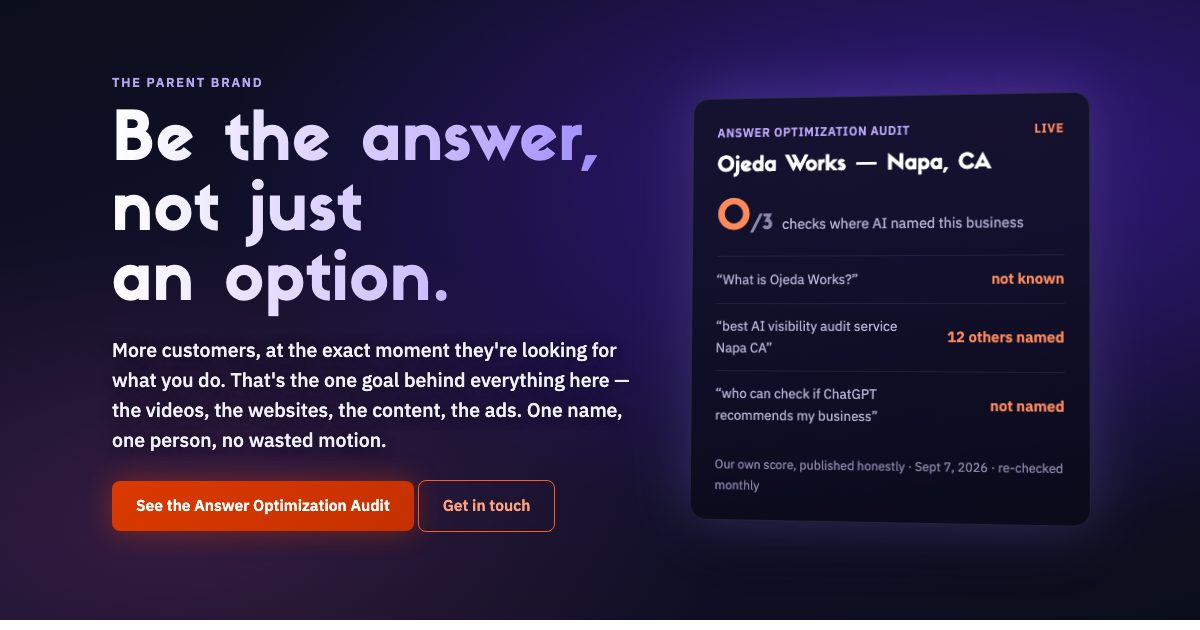
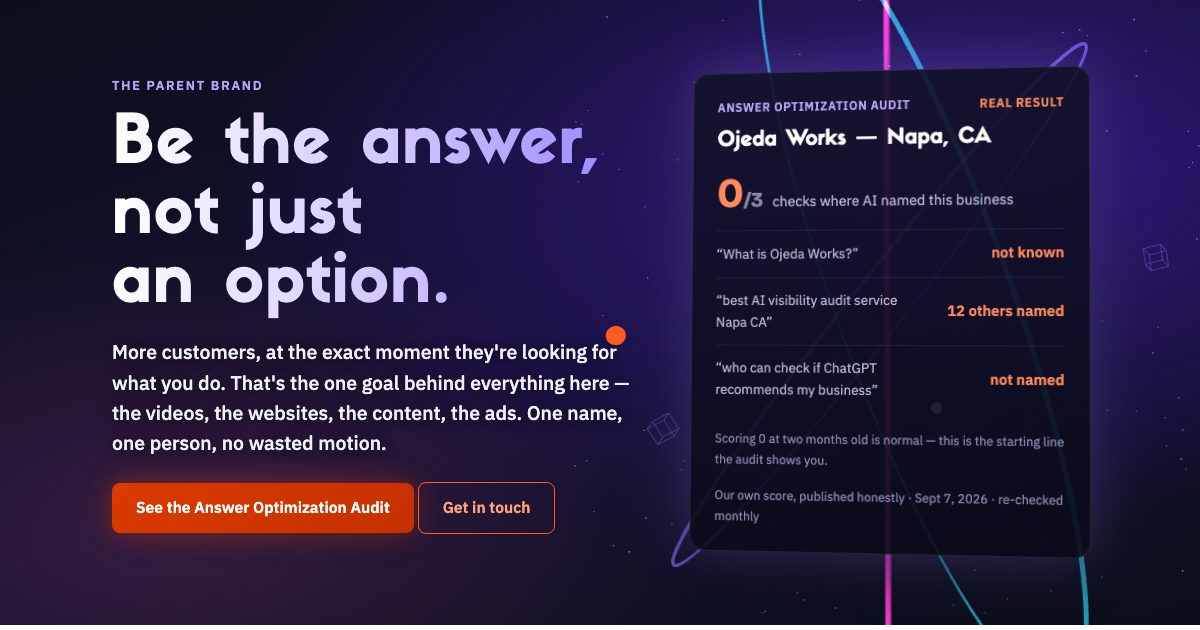
Hybrid hero: rings and particles return behind the audit report + critique fixes
- Three.js ambience restored (rings/particles/shards/orbiters only — no
  letterforms or word sprites competing with the info); desktop-only,
  reduced-motion + idle gates kept
- P0 from re-critique: score digits set in Bricolage — the Sifonn zero
  read as the letter O
- 'Live' chip -> 'Real result' (a monthly check isn't live; the honesty
  rule applies to our own exhibit first)
- Framing line on the card: scoring 0 at two months old is normal
- audit-report gets role=group; services grid now 2x2 (no orphan card)

diff --git a/es.html b/es.html
@@ -43,13 +43,17 @@ section.hero-3d p.lede{color:#f2f0fb;font-size:1.22rem;font-weight:500;line-heig
 .audit-report .rhead .live{color:#ff8a5c}
 .audit-report .biz{font-family:'Sifonn','Bricolage Grotesque',sans-serif;font-size:1.35rem;margin:.2rem 0 1rem;color:#fff}
 .audit-report .score{display:flex;align-items:baseline;gap:.6rem;margin-bottom:1rem}
-.audit-report .score b{font-family:'Sifonn','Bricolage Grotesque',sans-serif;font-size:2.6rem;font-weight:700;color:#ff8a5c;line-height:1}
+.audit-report .score b{font-family:"Bricolage Grotesque","IBM Plex Sans",sans-serif;font-size:2.6rem;font-weight:700;color:#ff8a5c;line-height:1}
 .audit-report .score small{font-size:1.3rem;color:#8f86ad}
 .audit-report .score span{color:#b9b3d6;font-size:.9rem}
 .audit-report .rrow{display:flex;justify-content:space-between;align-items:center;gap:1rem;padding:.7rem 0;border-top:1px solid rgba(255,255,255,.08)}
 .audit-report .rrow .q{color:#b9b3d6;font-size:.85rem;max-width:70%}
 .audit-report .miss{color:#ff8a5c;font-weight:600;white-space:nowrap}
 .audit-report .rfoot{margin-top:1rem;font-size:.78rem;color:#8f86ad}
+#hero-stage{position:relative}
+#hero-canvas{position:absolute;left:-28%;top:-24%;width:156%;height:148%;pointer-events:none;display:block}
+.audit-report{position:relative}
+@media (max-width:760px){#hero-canvas{display:none}}
 @media (max-width:760px){.audit-report{transform:none;margin-top:.5rem}}
 @media (prefers-reduced-motion: reduce){.audit-report{transform:none;transition:none}}
 @media (max-width:760px){
@@ -208,14 +212,18 @@ section.hero-3d p.lede{color:#f2f0fb;font-size:1.22rem;font-weight:500;line-heig
         <a class="btn ghost" href="contacto.html">Escríbenos</a>
       </p>
     </div>
-    <div class="audit-report" aria-label="Resultado en vivo de nuestro propio Answer Optimization Audit">
-      <div class="rhead"><span>Answer Optimization Audit</span><span class="live">En vivo</span></div>
+    <div id="hero-stage">
+    <canvas id="hero-canvas" aria-hidden="true"></canvas>
+    <div class="audit-report" role="group" aria-label="Resultado en vivo de nuestro propio Answer Optimization Audit">
+      <div class="rhead"><span>Answer Optimization Audit</span><span class="live">Resultado real</span></div>
       <div class="biz">Ojeda Works &mdash; Napa, CA</div>
       <div class="score"><b>0<small>/3</small></b><span>revisiones donde la IA nombr&oacute; este negocio</span></div>
       <div class="rrow"><span class="q">&ldquo;&iquest;Qu&eacute; es Ojeda Works?&rdquo;</span><span class="miss">no la conoce</span></div>
       <div class="rrow"><span class="q">&ldquo;mejor servicio de auditor&iacute;a de visibilidad en IA, Napa&rdquo;</span><span class="miss">nombr&oacute; a 12 otros</span></div>
       <div class="rrow"><span class="q">&ldquo;qui&eacute;n revisa si ChatGPT recomienda mi negocio&rdquo;</span><span class="miss">no nombrado</span></div>
+      <div class="rfoot">Un 0 a los dos meses de vida es normal &mdash; este es el punto de partida que el audit te muestra.</div>
       <div class="rfoot">Nuestro propio resultado, publicado honestamente &middot; 7 sept 2026 &middot; se revisa cada mes</div>
+    </div>
     </div>
   </div>
 </section>
@@ -224,7 +232,7 @@ section.hero-3d p.lede{color:#f2f0fb;font-size:1.22rem;font-weight:500;line-heig
   <div class="wrap">
     <h2>Qué hacemos</h2>
     <p class="lede">Cuatro formas de trabajar, todas bajo un mismo nombre y con una sola persona haciendo el trabajo real &mdash; en inglés y en español.</p>
-    <div class="grid">
+    <div class="grid grid-2">
       <a class="card" href="video.html" hreflang="en">
         <span class="tag">Video</span>
         <h3>Video</h3>
@@ -325,6 +333,103 @@ section.hero-3d p.lede{color:#f2f0fb;font-size:1.22rem;font-weight:500;line-heig
   </div>
 </footer>
 
+
+<script type="module">
+if (!matchMedia('(prefers-reduced-motion: reduce)').matches && matchMedia('(min-width: 761px)').matches) {
+  try {
+    // ambience only: rings + particles behind the report card; content never waits for it
+    await new Promise(r => 'requestIdleCallback' in window ? requestIdleCallback(r, {timeout: 1500}) : setTimeout(r, 200));
+    const THREE = await import('https://cdn.jsdelivr.net/npm/three@0.160.0/build/three.module.js');
+    const canvas = document.getElementById('hero-canvas');
+    const renderer = new THREE.WebGLRenderer({canvas, alpha: true, antialias: true});
+    renderer.setPixelRatio(Math.min(devicePixelRatio, 2));
+    const scene = new THREE.Scene();
+    const cam = new THREE.PerspectiveCamera(45, 1, 0.1, 100);
+    cam.position.set(0, 0, 8.8);
+
+    const rings = [
+      { r: 3.45, tube: 0.022, c: 0xff2ea6, tx: 1.25, tz: 0.2,  sp: 0.00028 },
+      { r: 3.85, tube: 0.016, c: 0x2ee6ff, tx: 1.05, tz: -0.5, sp: -0.00021 },
+      { r: 3.15, tube: 0.014, c: 0x8f6bff, tx: 1.45, tz: 0.9,  sp: 0.00016 }
+    ].map(cfg => {
+      const m = new THREE.Mesh(
+        new THREE.TorusGeometry(cfg.r, cfg.tube, 12, 160),
+        new THREE.MeshBasicMaterial({ color: cfg.c, transparent: true, opacity: 0.65,
+          blending: THREE.AdditiveBlending, depthWrite: false })
+      );
+      m.rotation.x = cfg.tx; m.rotation.z = cfg.tz;
+      m.userData.sp = cfg.sp;
+      scene.add(m); return m;
+    });
+
+    const shards = [];
+    for (let i = 0; i < 6; i++) {
+      const e = new THREE.LineSegments(
+        new THREE.EdgesGeometry(new THREE.BoxGeometry(0.22, 0.22, 0.22)),
+        new THREE.LineBasicMaterial({ color: 0x6d5bd0, transparent: true, opacity: 0.5 })
+      );
+      e.position.set((Math.random()-0.5)*7, (Math.random()-0.5)*4.5, -1 - Math.random()*2);
+      e.userData = { rx: (Math.random()-0.5)*0.0006, ry: (Math.random()-0.5)*0.0006 };
+      scene.add(e); shards.push(e);
+    }
+
+    const pCount = 420;
+    const pPos = new Float32Array(pCount * 3);
+    for (let i = 0; i < pCount; i++) {
+      pPos[i*3]   = (Math.random() - 0.5) * 22;
+      pPos[i*3+1] = (Math.random() - 0.5) * 14;
+      pPos[i*3+2] = -2 - Math.random() * 8;
+    }
+    const pGeo = new THREE.BufferGeometry();
+    pGeo.setAttribute('position', new THREE.BufferAttribute(pPos, 3));
+    const particles = new THREE.Points(pGeo, new THREE.PointsMaterial({
+      color: 0xb9a5f5, size: 0.05, transparent: true, opacity: 0.7,
+      blending: THREE.AdditiveBlending, depthWrite: false
+    }));
+    scene.add(particles);
+
+    const orbiters = [
+      { c: 0xff5a1f, r: 3.1, sp: 0.00045, ph: 0,    sz: 0.09 },
+      { c: 0x9d7bff, r: 3.7, sp: -0.0003, ph: 2.1,  sz: 0.07 },
+      { c: 0xffffff, r: 2.6, sp: 0.00062, ph: 4.2,  sz: 0.05 }
+    ].map(o => {
+      const m = new THREE.Mesh(
+        new THREE.SphereGeometry(o.sz, 16, 16),
+        new THREE.MeshBasicMaterial({ color: o.c })
+      );
+      m.userData = o; scene.add(m); return m;
+    });
+
+    let mx = 0, my = 0;
+    addEventListener('pointermove', e => {
+      mx = (e.clientX / innerWidth - 0.5) * 0.6;
+      my = (e.clientY / innerHeight - 0.5) * 0.4;
+    }, {passive: true});
+
+    function size() {
+      const r = canvas.getBoundingClientRect();
+      const w = Math.max(r.width, 1), h = Math.max(r.height, 1);
+      renderer.setSize(w, h, false);
+      cam.aspect = w / h; cam.updateProjectionMatrix();
+    }
+    size(); addEventListener('resize', size);
+
+    renderer.setAnimationLoop(t => {
+      for (const r of rings) r.rotation.y = t * r.userData.sp;
+      for (const s of shards) { s.rotation.x += s.userData.rx * 16; s.rotation.y += s.userData.ry * 16; }
+      particles.rotation.y = t * 0.00002;
+      particles.position.y = Math.sin(t * 0.0002) * 0.3;
+      for (const m of orbiters) {
+        const o = m.userData, a = t * o.sp + o.ph;
+        m.position.set(Math.cos(a) * o.r, Math.sin(a * 1.3) * 1.6, Math.sin(a) * 1.2);
+      }
+      cam.position.x = mx; cam.position.y = -my;
+      cam.lookAt(0, 0, 0);
+      renderer.render(scene, cam);
+    });
+  } catch (e) { /* WebGL or CDN unavailable: static hero stays */ }
+}
+</script>
 
 </body>
 </html>

diff --git a/index.html b/index.html
@@ -43,13 +43,17 @@ section.hero-3d p.lede{color:#f2f0fb;font-size:1.22rem;font-weight:500;line-heig
 .audit-report .rhead .live{color:#ff8a5c}
 .audit-report .biz{font-family:'Sifonn','Bricolage Grotesque',sans-serif;font-size:1.35rem;margin:.2rem 0 1rem;color:#fff}
 .audit-report .score{display:flex;align-items:baseline;gap:.6rem;margin-bottom:1rem}
-.audit-report .score b{font-family:'Sifonn','Bricolage Grotesque',sans-serif;font-size:2.6rem;font-weight:700;color:#ff8a5c;line-height:1}
+.audit-report .score b{font-family:"Bricolage Grotesque","IBM Plex Sans",sans-serif;font-size:2.6rem;font-weight:700;color:#ff8a5c;line-height:1}
 .audit-report .score small{font-size:1.3rem;color:#8f86ad}
 .audit-report .score span{color:#b9b3d6;font-size:.9rem}
 .audit-report .rrow{display:flex;justify-content:space-between;align-items:center;gap:1rem;padding:.7rem 0;border-top:1px solid rgba(255,255,255,.08)}
 .audit-report .rrow .q{color:#b9b3d6;font-size:.85rem;max-width:70%}
 .audit-report .miss{color:#ff8a5c;font-weight:600;white-space:nowrap}
 .audit-report .rfoot{margin-top:1rem;font-size:.78rem;color:#8f86ad}
+#hero-stage{position:relative}
+#hero-canvas{position:absolute;left:-28%;top:-24%;width:156%;height:148%;pointer-events:none;display:block}
+.audit-report{position:relative}
+@media (max-width:760px){#hero-canvas{display:none}}
 @media (max-width:760px){.audit-report{transform:none;margin-top:.5rem}}
 @media (prefers-reduced-motion: reduce){.audit-report{transform:none;transition:none}}
 @media (max-width:760px){
@@ -215,14 +219,18 @@ section.hero-3d p.lede{color:#f2f0fb;font-size:1.22rem;font-weight:500;line-heig
         <a class="btn ghost" href="contact.html">Get in touch</a>
       </p>
     </div>
-    <div class="audit-report" aria-label="Live result of our own Answer Optimization Audit">
-      <div class="rhead"><span>Answer Optimization Audit</span><span class="live">Live</span></div>
+    <div id="hero-stage">
+    <canvas id="hero-canvas" aria-hidden="true"></canvas>
+    <div class="audit-report" role="group" aria-label="Live result of our own Answer Optimization Audit">
+      <div class="rhead"><span>Answer Optimization Audit</span><span class="live">Real result</span></div>
       <div class="biz">Ojeda Works &mdash; Napa, CA</div>
       <div class="score"><b>0<small>/3</small></b><span>checks where AI named this business</span></div>
       <div class="rrow"><span class="q">&ldquo;What is Ojeda Works?&rdquo;</span><span class="miss">not known</span></div>
       <div class="rrow"><span class="q">&ldquo;best AI visibility audit service Napa CA&rdquo;</span><span class="miss">12 others named</span></div>
       <div class="rrow"><span class="q">&ldquo;who can check if ChatGPT recommends my business&rdquo;</span><span class="miss">not named</span></div>
+      <div class="rfoot">Scoring 0 at two months old is normal &mdash; this is the starting line the audit shows you.</div>
       <div class="rfoot">Our own score, published honestly &middot; Sept 7, 2026 &middot; re-checked monthly</div>
+    </div>
     </div>
   </div>
 </section>
@@ -231,7 +239,7 @@ section.hero-3d p.lede{color:#f2f0fb;font-size:1.22rem;font-weight:500;line-heig
   <div class="wrap">
     <h2>What we do</h2>
     <p class="lede">Four ways we work, all under one name and one person doing the actual work.</p>
-    <div class="grid">
+    <div class="grid grid-2">
       <a class="card" href="video.html">
         <span class="tag">Video</span>
         <h3>Video</h3>
@@ -353,6 +361,103 @@ section.hero-3d p.lede{color:#f2f0fb;font-size:1.22rem;font-weight:500;line-heig
   </div>
 </footer>
 
+
+<script type="module">
+if (!matchMedia('(prefers-reduced-motion: reduce)').matches && matchMedia('(min-width: 761px)').matches) {
+  try {
+    // ambience only: rings + particles behind the report card; content never waits for it
+    await new Promise(r => 'requestIdleCallback' in window ? requestIdleCallback(r, {timeout: 1500}) : setTimeout(r, 200));
+    const THREE = await import('https://cdn.jsdelivr.net/npm/three@0.160.0/build/three.module.js');
+    const canvas = document.getElementById('hero-canvas');
+    const renderer = new THREE.WebGLRenderer({canvas, alpha: true, antialias: true});
+    renderer.setPixelRatio(Math.min(devicePixelRatio, 2));
+    const scene = new THREE.Scene();
+    const cam = new THREE.PerspectiveCamera(45, 1, 0.1, 100);
+    cam.position.set(0, 0, 8.8);
+
+    const rings = [
+      { r: 3.45, tube: 0.022, c: 0xff2ea6, tx: 1.25, tz: 0.2,  sp: 0.00028 },
+      { r: 3.85, tube: 0.016, c: 0x2ee6ff, tx: 1.05, tz: -0.5, sp: -0.00021 },
+      { r: 3.15, tube: 0.014, c: 0x8f6bff, tx: 1.45, tz: 0.9,  sp: 0.00016 }
+    ].map(cfg => {
+      const m = new THREE.Mesh(
+        new THREE.TorusGeometry(cfg.r, cfg.tube, 12, 160),
+        new THREE.MeshBasicMaterial({ color: cfg.c, transparent: true, opacity: 0.65,
+          blending: THREE.AdditiveBlending, depthWrite: false })
+      );
+      m.rotation.x = cfg.tx; m.rotation.z = cfg.tz;
+      m.userData.sp = cfg.sp;
+      scene.add(m); return m;
+    });
+
+    const shards = [];
+    for (let i = 0; i < 6; i++) {
+      const e = new THREE.LineSegments(
+        new THREE.EdgesGeometry(new THREE.BoxGeometry(0.22, 0.22, 0.22)),
+        new THREE.LineBasicMaterial({ color: 0x6d5bd0, transparent: true, opacity: 0.5 })
+      );
+      e.position.set((Math.random()-0.5)*7, (Math.random()-0.5)*4.5, -1 - Math.random()*2);
+      e.userData = { rx: (Math.random()-0.5)*0.0006, ry: (Math.random()-0.5)*0.0006 };
+      scene.add(e); shards.push(e);
+    }
+
+    const pCount = 420;
+    const pPos = new Float32Array(pCount * 3);
+    for (let i = 0; i < pCount; i++) {
+      pPos[i*3]   = (Math.random() - 0.5) * 22;
+      pPos[i*3+1] = (Math.random() - 0.5) * 14;
+      pPos[i*3+2] = -2 - Math.random() * 8;
+    }
+    const pGeo = new THREE.BufferGeometry();
+    pGeo.setAttribute('position', new THREE.BufferAttribute(pPos, 3));
+    const particles = new THREE.Points(pGeo, new THREE.PointsMaterial({
+      color: 0xb9a5f5, size: 0.05, transparent: true, opacity: 0.7,
+      blending: THREE.AdditiveBlending, depthWrite: false
+    }));
+    scene.add(particles);
+
+    const orbiters = [
+      { c: 0xff5a1f, r: 3.1, sp: 0.00045, ph: 0,    sz: 0.09 },
+      { c: 0x9d7bff, r: 3.7, sp: -0.0003, ph: 2.1,  sz: 0.07 },
+      { c: 0xffffff, r: 2.6, sp: 0.00062, ph: 4.2,  sz: 0.05 }
+    ].map(o => {
+      const m = new THREE.Mesh(
+        new THREE.SphereGeometry(o.sz, 16, 16),
+        new THREE.MeshBasicMaterial({ color: o.c })
+      );
+      m.userData = o; scene.add(m); return m;
+    });
+
+    let mx = 0, my = 0;
+    addEventListener('pointermove', e => {
+      mx = (e.clientX / innerWidth - 0.5) * 0.6;
+      my = (e.clientY / innerHeight - 0.5) * 0.4;
+    }, {passive: true});
+
+    function size() {
+      const r = canvas.getBoundingClientRect();
+      const w = Math.max(r.width, 1), h = Math.max(r.height, 1);
+      renderer.setSize(w, h, false);
+      cam.aspect = w / h; cam.updateProjectionMatrix();
+    }
+    size(); addEventListener('resize', size);
+
+    renderer.setAnimationLoop(t => {
+      for (const r of rings) r.rotation.y = t * r.userData.sp;
+      for (const s of shards) { s.rotation.x += s.userData.rx * 16; s.rotation.y += s.userData.ry * 16; }
+      particles.rotation.y = t * 0.00002;
+      particles.position.y = Math.sin(t * 0.0002) * 0.3;
+      for (const m of orbiters) {
+        const o = m.userData, a = t * o.sp + o.ph;
+        m.position.set(Math.cos(a) * o.r, Math.sin(a * 1.3) * 1.6, Math.sin(a) * 1.2);
+      }
+      cam.position.x = mx; cam.position.y = -my;
+      cam.lookAt(0, 0, 0);
+      renderer.render(scene, cam);
+    });
+  } catch (e) { /* WebGL or CDN unavailable: static hero stays */ }
+}
+</script>
 
 </body>
 </html>

diff --git a/assets/brand.css b/assets/brand.css
@@ -112,3 +112,7 @@ ul.plain{list-style:none;padding:0;margin:0}
 ul.plain li{padding:.5rem 0;border-bottom:1px solid var(--line)}
 ul.plain li:last-child{border-bottom:none}
 .small{font-size:.88rem;color:var(--dim)}
+
+/* 2x2 services grid — no orphan card on desktop */
+.grid.grid-2{grid-template-columns:repeat(2,minmax(0,1fr))}
+@media (max-width:640px){.grid.grid-2{grid-template-columns:1fr}}
